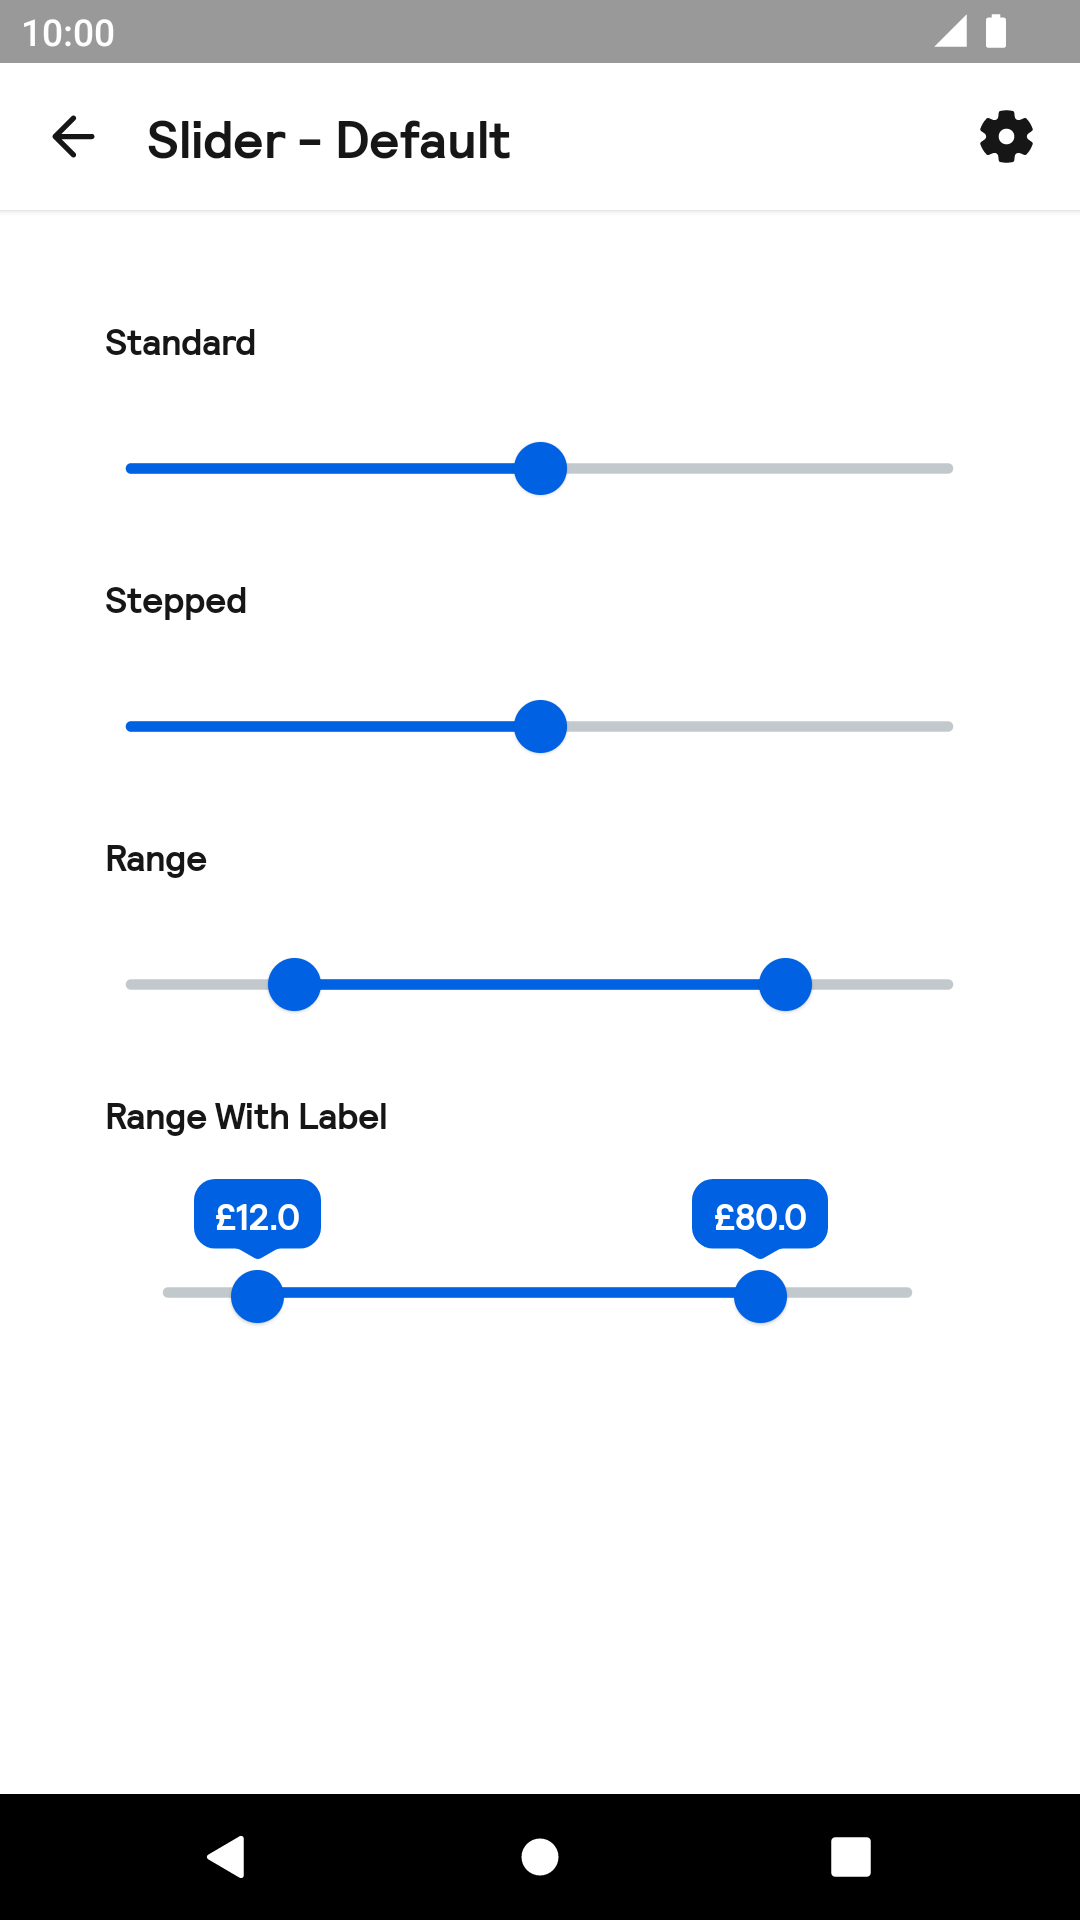
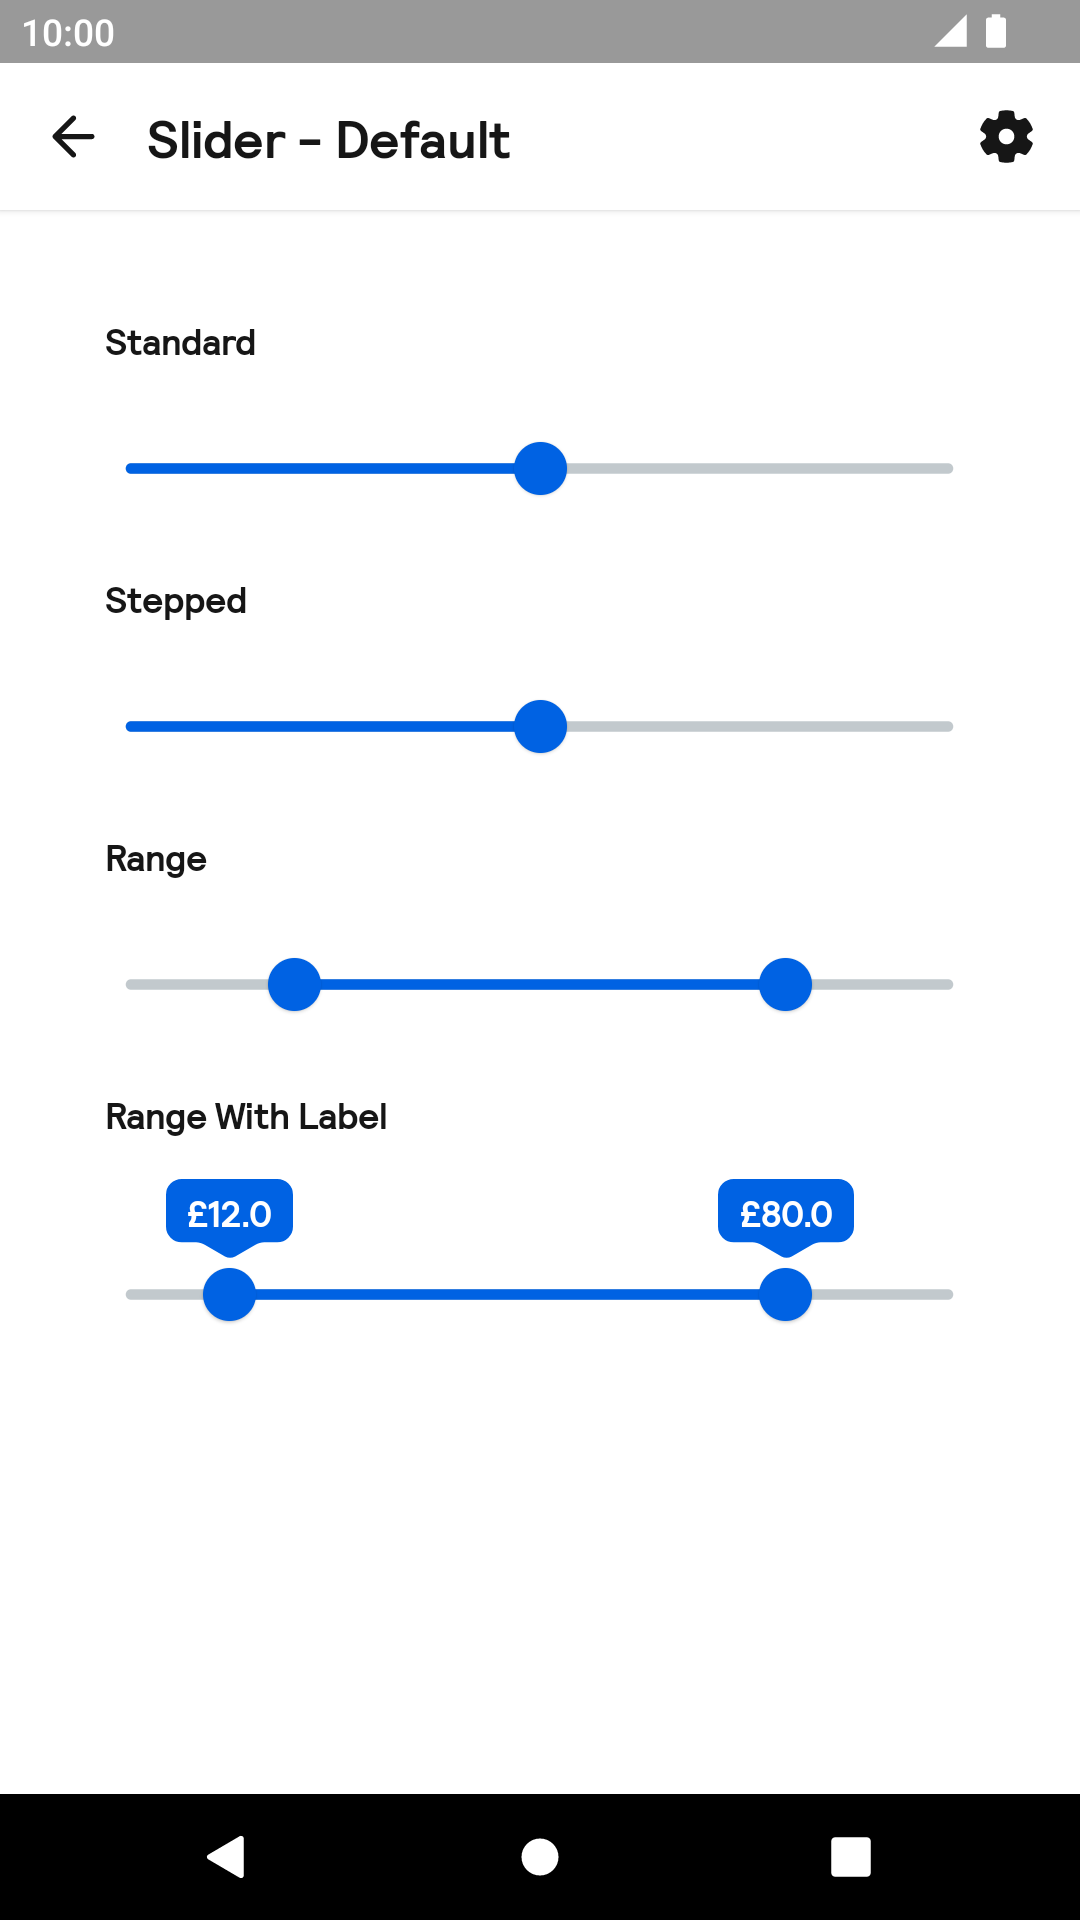
LMN-705 Fix range slider jumping
The track width is being dynamically calculated by the thumb width. Therefore we cannot have a dynamic thumb width. Change the label to not take any spacing into account when measuring to avoid this issue.

diff --git a/backpack-compose/src/main/kotlin/net/skyscanner/backpack/compose/slider/internal/BpkRangeSliderImpl.kt b/backpack-compose/src/main/kotlin/net/skyscanner/backpack/compose/slider/internal/BpkRangeSliderImpl.kt
@@ -20,9 +20,7 @@ package net.skyscanner.backpack.compose.slider.internal
 
 import androidx.compose.foundation.background
 import androidx.compose.foundation.interaction.MutableInteractionSource
-import androidx.compose.foundation.layout.Arrangement
-import androidx.compose.foundation.layout.Column
-import androidx.compose.foundation.layout.Spacer
+import androidx.compose.foundation.layout.Box
 import androidx.compose.foundation.layout.height
 import androidx.compose.foundation.layout.padding
 import androidx.compose.material3.ExperimentalMaterial3Api
@@ -33,16 +31,18 @@ import androidx.compose.runtime.remember
 import androidx.compose.ui.Alignment
 import androidx.compose.ui.ExperimentalComposeUiApi
 import androidx.compose.ui.Modifier
+import androidx.compose.ui.layout.Layout
 import androidx.compose.ui.semantics.invisibleToUser
 import androidx.compose.ui.semantics.semantics
 import androidx.compose.ui.semantics.stateDescription
 import androidx.compose.ui.text.style.TextAlign
+import androidx.compose.ui.unit.dp
 import net.skyscanner.backpack.compose.flare.BpkFlarePointerDirection
 import net.skyscanner.backpack.compose.text.BpkText
 import net.skyscanner.backpack.compose.theme.BpkTheme
-import net.skyscanner.backpack.compose.tokens.BpkBorderRadius
 import net.skyscanner.backpack.compose.tokens.BpkSpacing
 import net.skyscanner.backpack.compose.utils.FlareShape
+import net.skyscanner.backpack.compose.utils.applyIf
 
 @OptIn(ExperimentalMaterial3Api::class)
 @Composable
@@ -96,6 +96,15 @@ internal fun BpkRangeSliderImpl(
                 enabled = enabled,
             )
         },
+        track = {
+            SliderDefaults.Track(
+                colors = sliderColors(),
+                sliderPositions = it,
+                modifier = Modifier.applyIf(upperThumbLabel != null || lowerThumbLabel != null) {
+                    padding(top = LabelOffset)
+                },
+            )
+        },
         colors = sliderColors(),
     )
 }
@@ -108,43 +117,68 @@ private fun SlideRangeLabel(
     interactionSource: MutableInteractionSource,
     modifier: Modifier = Modifier,
 ) {
-    Column(
-        modifier = modifier
-            .semantics { stateDescription = label }
-            .padding(bottom = BpkSpacing.Xl),
-        verticalArrangement = Arrangement.Center,
-        horizontalAlignment = Alignment.CenterHorizontally,
-    ) {
-        BpkText(
-            text = label,
-            color = BpkTheme.colors.textPrimaryInverse,
-            style = BpkTheme.typography.label2,
-            textAlign = TextAlign.Center,
+    LabelLayout(modifier) {
+        Box(
             modifier = Modifier
                 .background(
                     color = BpkTheme.colors.coreAccent,
                     shape = FlareShape(
-                        borderRadius = BpkBorderRadius.Sm,
-                        flareHeight = BpkSpacing.Sm,
+                        borderRadius = BorderRadius,
+                        flareHeight = FlareHeight,
                         pointerDirection = BpkFlarePointerDirection.Down,
                     ),
                 )
-                .padding(top = BpkSpacing.Sm)
-                .padding(bottom = BpkSpacing.Md)
-                .padding(horizontal = BpkSpacing.Md)
-                .semantics { invisibleToUser() },
-
-        )
-        Spacer(
-            modifier = Modifier.height(BpkSpacing.Sm),
-        )
+                .padding(bottom = FlareHeight)
+                .height(BpkSpacing.Lg)
+                .padding(horizontal = BpkSpacing.Md),
+            contentAlignment = Alignment.Center,
+        ) {
+            BpkText(
+                text = label,
+                color = BpkTheme.colors.textPrimaryInverse,
+                style = BpkTheme.typography.label2,
+                textAlign = TextAlign.Center,
+                maxLines = 1,
+                modifier = Modifier
+                    .semantics { invisibleToUser() },
+            )
+        }
         SliderDefaults.Thumb(
+            modifier = Modifier.padding(top = LabelOffset)
+                .semantics { stateDescription = label },
             interactionSource = interactionSource,
             colors = sliderColors(),
             enabled = enabled,
         )
     }
 }
+
+@Composable
+private fun LabelLayout(
+    modifier: Modifier = Modifier,
+    content: @Composable () -> Unit,
+) {
+    Layout(
+        modifier = modifier,
+        content = content,
+    ) { measurables, constraints ->
+        val labelMeasurable = measurables[0]
+        val thumbMeasurable = measurables[1]
+        val thumbPlaceable = thumbMeasurable.measure(constraints)
+        val labelPlaceable = labelMeasurable.measure(constraints)
+
+        // ignore the label width as it'll be drawn outside the bounds of the range slider to avoid jumping around
+        layout(thumbPlaceable.width, thumbPlaceable.height) {
+            // ensure the label is centred on the thumb
+            labelPlaceable.placeRelative(x = (thumbPlaceable.width - labelPlaceable.width) / 2, y = 0)
+            thumbPlaceable.placeRelative(x = 0, y = 0)
+        }
+    }
+}
+
+private val LabelOffset = 34.dp
+private val FlareHeight = 6.dp
+private val BorderRadius = 6.dp
 
 @Composable
 internal fun sliderColors() = SliderDefaults.colors(
